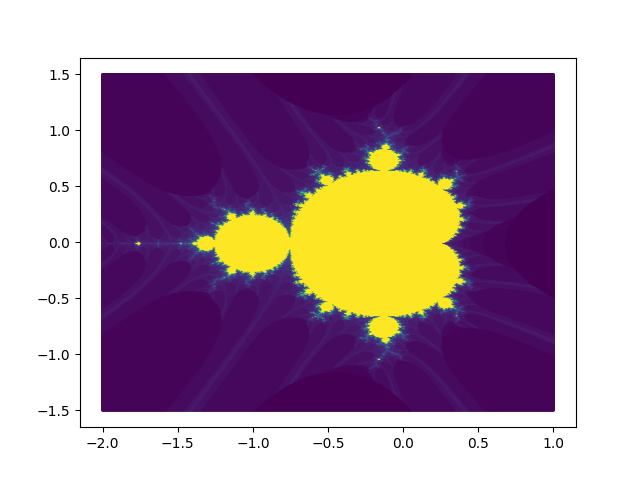
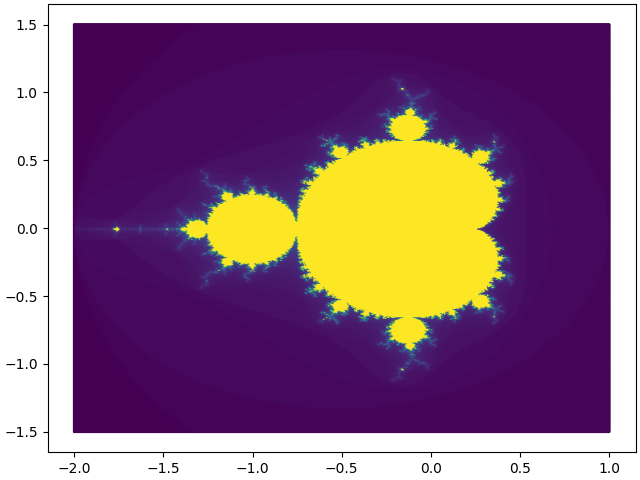
Updated ex4: bettwer plot for Julia & Mandelbrot Sets

diff --git a/ex04/fractals.py b/ex04/fractals.py
@@ -6,7 +6,10 @@ import matplotlib.pyplot as plt
 def getFractal(draw_julia: bool, constant=0.0):
     x_res = 500
     y_res = 500
-    x_linspace = np.linspace(-2.0, 1.0, x_res)
+    if draw_julia:
+        x_linspace = np.linspace(-1.5, 1.5, y_res)
+    else:
+        x_linspace = np.linspace(-2.0, 1.0, x_res)
     y_linspace = np.linspace(-1.5, 1.5, y_res)
     X, Y = np.meshgrid(x_linspace, y_linspace)
     # convert to Grid
@@ -34,21 +37,22 @@ def getFractal(draw_julia: bool, constant=0.0):
 
 if __name__ == "__main__":
 
-    fig, ax = plt.subplots()
+    fig, ax = plt.subplots(layout="constrained")
     C, count = getFractal(draw_julia=False, constant=0)
     ax.scatter(C.real, C.imag, s=1, c=count)
     plt.plot()
     plt.savefig("mandelbrot.png")
 
-    fig, ax = plt.subplots()
-    C, count = getFractal(draw_julia=True, constant=0.5 - 0.5j)
-    ax.scatter(C.real, C.imag, s=1, c=count)
-    plt.plot()
-    plt.savefig("julia0.5.png")
+    # fig, ax = plt.subplots(layout="constrained")
+    # C, count = getFractal(draw_julia=True, constant=0.5 - 0.5j)
+    # ax.scatter(C.real, C.imag, s=1, c=count)
+    # plt.plot()
+    # plt.savefig("julia0.5.png")
 
-    fig, ax = plt.subplots()
-    C, count = getFractal(draw_julia=True, constant=0.8 - 0.8j)
+    fig, ax = plt.subplots(layout="constrained")
+    # C, count = getFractal(draw_julia=True, constant=0.8 - 0.8j)
+    C, count = getFractal(draw_julia=True, constant=0.285+0.01j)
     ax.scatter(C.real, C.imag, s=1, c=count)
     plt.plot()
-    plt.savefig("julia0.8.png")
+    plt.savefig("julia.png")
 
